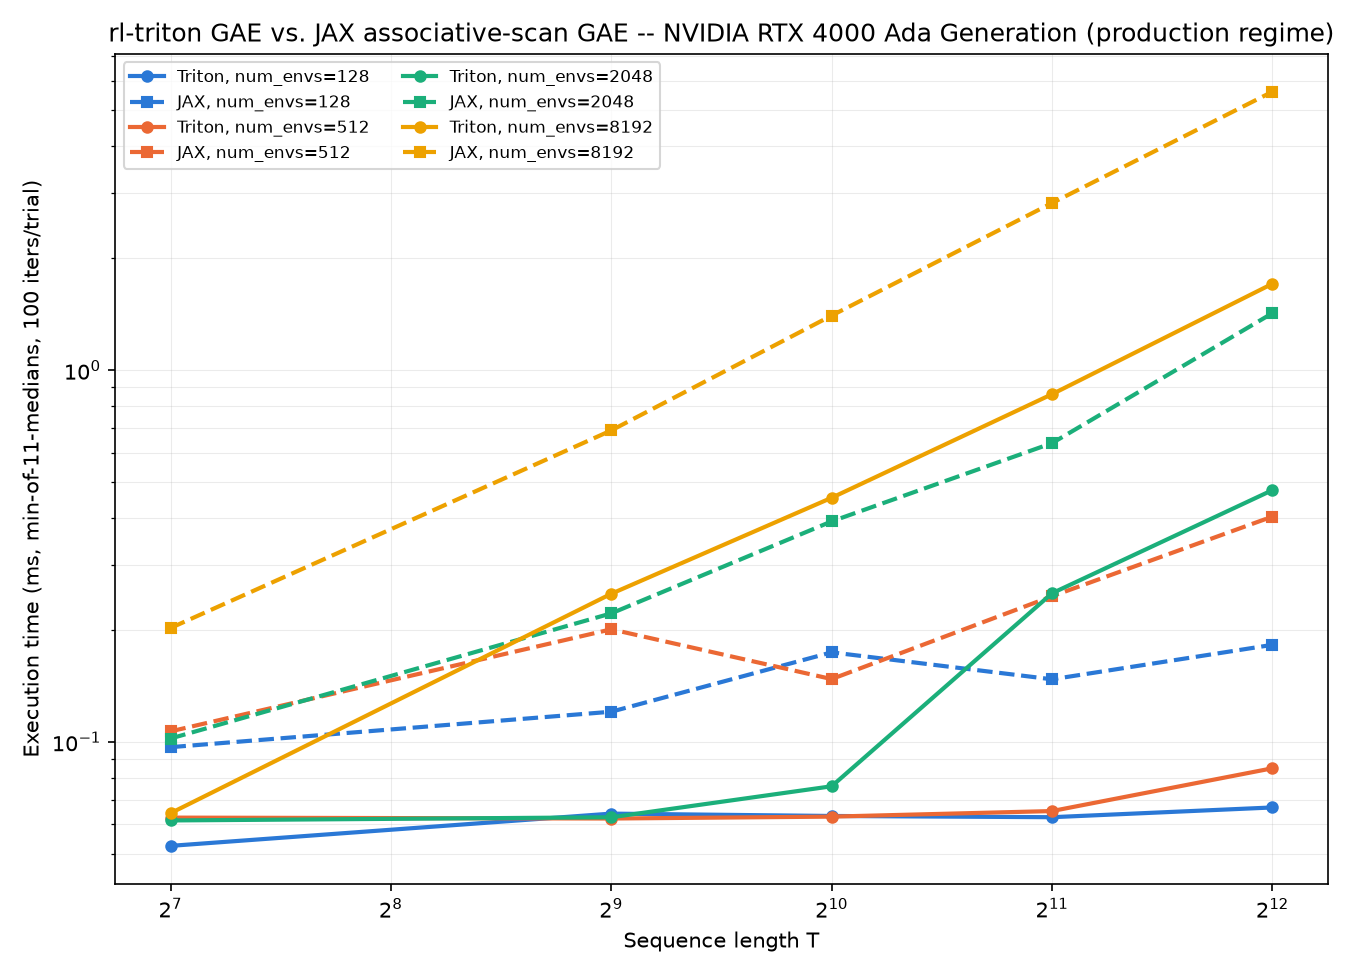
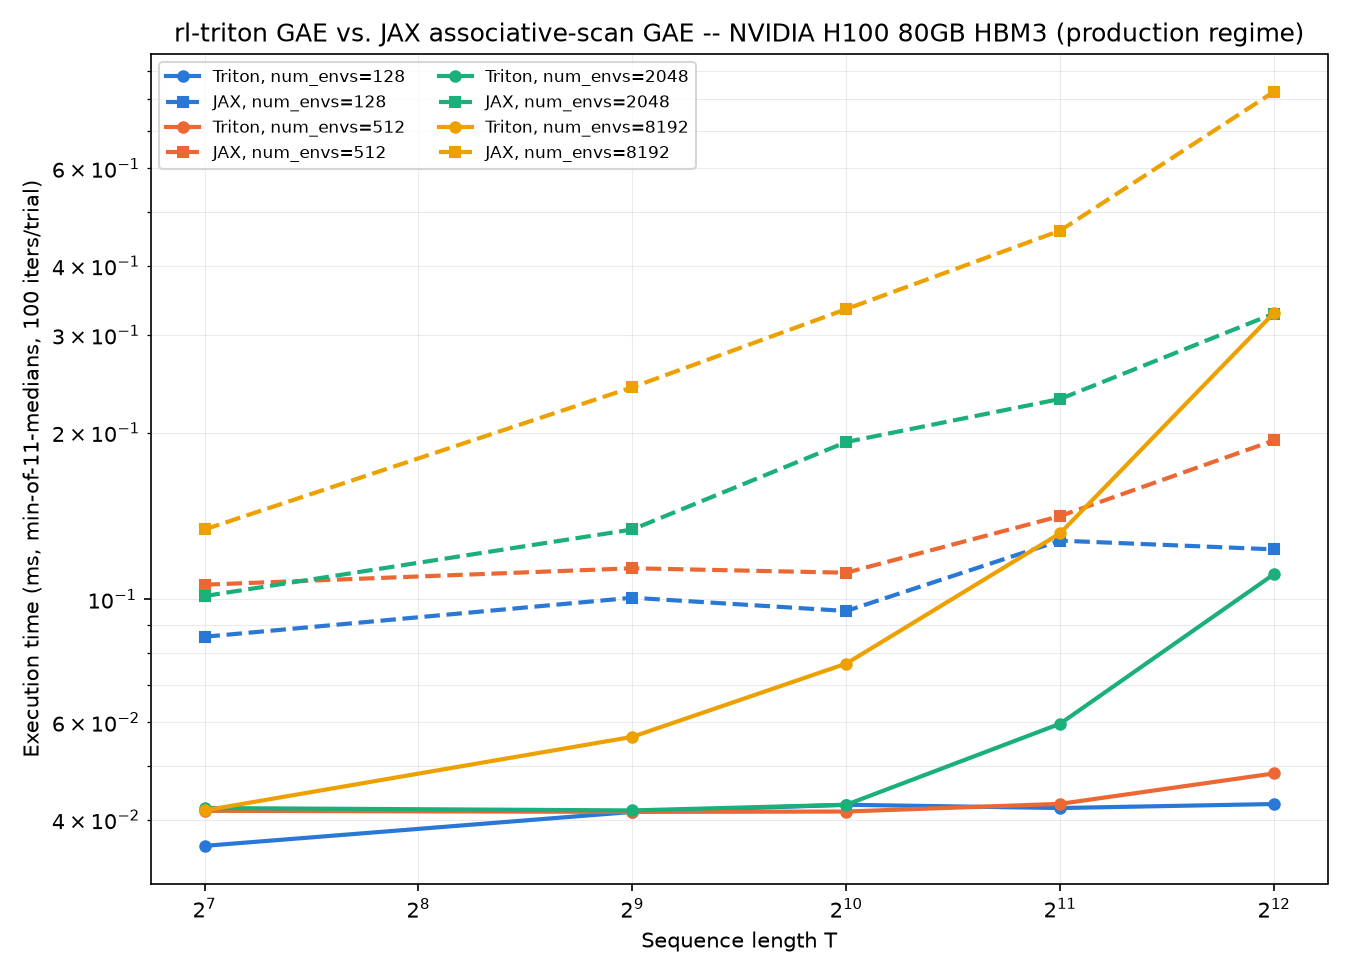
Added benchmark runs for JAX GAE on H100 SMX

diff --git a/benchmarks/gae_vs_jax_scan-2026-09-15.md b/benchmarks/gae_vs_jax_scan-2026-09-15.md
@@ -2,7 +2,7 @@
 
 ONE-OFF deep-dive study (equivalence proof, launch counts, bandwidth, crossover plots) -- not part of the release cycle, not regenerated automatically. Mirrors gae_vs_pufferlib-*.md's structure but is NOT directly comparable to it: this baseline is JAX/XLA's `jax.lax.associative_scan` (a log-depth parallel scan, compiled by XLA), not PufferLib's hand-written sequential CUDA kernel. Produced by a three-phase, two-venv pipeline (benchmark_gae_vs_jax_scan_{triton,jax,report}.py) -- see benchmark_gae_vs_jax_scan_triton.py's module docstring for why (a real torch/jax cuDNN pin conflict, not a design preference) and for the full index-mapping derivation between rl-triton's and the JAX baseline's buffer conventions. JAX's numbers are wall-clock only (time.perf_counter + block_until_ready, in a separate process from Triton's CUDA-event timing) -- no device-only/launch-count columns exist for JAX in this setup.
 
-GPU: NVIDIA RTX 4000 Ada Generation · torch 2.4.1+cu121 (cuda 12.1) · triton 3.0.0 · jax 0.10.2 (backend=gpu)
+GPU: NVIDIA H100 80GB HBM3 · torch 2.4.1+cu121 (cuda 12.1) · triton 3.0.0 · jax 0.10.2 (backend=gpu)
 dtype float32 · gamma=0.99 · lambda=0.95 · termination_prob=0.05
 
 Equivalence gate passed (see console output) -- both implementations verified to compute the same recurrence (under the derived index mapping) before any timing number below is trusted.
@@ -13,26 +13,26 @@ seq_len in [128, 512, 1024, 2048, 4096], num_envs in [128, 512, 2048, 8192].
 
 | num_envs | seq_len | triton (ms) | jax (ms) | speedup | triton amort (ms) | jax amort (ms) | triton GB/s (%peak) | jax GB/s (%peak) | triton dev (us) | triton launches |
 |---|---|---|---|---|---|---|---|---|---|---|
-| 128 | 128 | 0.0525 | 0.0968 | 1.84x | 0.0352 | 0.0606 | 5.0 (0.15%) | 3.4 (0.10%) | 1.46 | 1.0 |
-| 128 | 512 | 0.0642 | 0.1206 | 1.88x | 0.0400 | 0.0599 | 16.3 (0.49%) | 10.9 (0.32%) | 2.28 | 1.0 |
-| 128 | 1024 | 0.0632 | 0.1742 | 2.76x | 0.0385 | 0.0611 | 33.2 (0.99%) | 15.1 (0.45%) | 3.43 | 1.0 |
-| 128 | 2048 | 0.0628 | 0.1474 | 2.35x | 0.0422 | 0.0622 | 66.8 (2.00%) | 35.6 (1.06%) | 6.45 | 1.0 |
-| 128 | 4096 | 0.0667 | 0.1825 | 2.74x | 0.0379 | 0.0791 | 125.8 (3.76%) | 57.5 (1.72%) | 12.93 | 1.0 |
-| 512 | 128 | 0.0626 | 0.1068 | 1.71x | 0.0375 | 0.0753 | 16.8 (0.50%) | 12.4 (0.37%) | 2.02 | 1.0 |
-| 512 | 512 | 0.0622 | 0.2009 | 3.23x | 0.0375 | 0.0818 | 67.4 (2.01%) | 26.1 (0.78%) | 4.62 | 1.0 |
-| 512 | 1024 | 0.0630 | 0.1476 | 2.34x | 0.0375 | 0.0680 | 133.2 (3.98%) | 71.1 (2.12%) | 8.89 | 1.0 |
-| 512 | 2048 | 0.0652 | 0.2466 | 3.78x | 0.0378 | 0.0832 | 257.4 (7.68%) | 85.1 (2.54%) | 19.88 | 1.0 |
-| 512 | 4096 | 0.0850 | 0.4039 | 4.75x | 0.0393 | 0.2370 | 394.9 (11.79%) | 103.9 (3.10%) | 38.71 | 1.0 |
-| 2048 | 128 | 0.0615 | 0.1022 | 1.66x | 0.0374 | 0.0736 | 68.2 (2.04%) | 51.6 (1.54%) | 4.47 | 1.0 |
-| 2048 | 512 | 0.0627 | 0.2218 | 3.54x | 0.0375 | 0.0693 | 267.5 (7.98%) | 94.7 (2.83%) | 14.51 | 1.0 |
-| 2048 | 1024 | 0.0760 | 0.3920 | 5.16x | 0.0386 | 0.2302 | 441.5 (13.18%) | 107.1 (3.20%) | 30.27 | 1.0 |
-| 2048 | 2048 | 0.2512 | 0.6365 | 2.53x | 0.2072 | 0.5275 | 267.2 (7.98%) | 131.9 (3.94%) | 206.33 | 1.0 |
-| 2048 | 4096 | 0.4757 | 1.4236 | 2.99x | 0.4262 | 1.2652 | 282.1 (8.42%) | 117.9 (3.52%) | 428.98 | 1.0 |
-| 8192 | 128 | 0.0643 | 0.2025 | 3.15x | 0.0387 | 0.0608 | 260.8 (7.79%) | 104.2 (3.11%) | 14.39 | 1.0 |
-| 8192 | 512 | 0.2504 | 0.6886 | 2.75x | 0.2065 | 0.5248 | 268.0 (8.00%) | 122.0 (3.64%) | 205.57 | 1.0 |
-| 8192 | 1024 | 0.4538 | 1.4026 | 3.09x | 0.4100 | 1.2604 | 295.8 (8.83%) | 119.7 (3.57%) | 409.25 | 1.0 |
-| 8192 | 2048 | 0.8618 | 2.8158 | 3.27x | 0.8171 | 2.6223 | 311.5 (9.30%) | 119.2 (3.56%) | 816.28 | 1.0 |
-| 8192 | 4096 | 1.7080 | 5.6116 | 3.29x | 1.6528 | 5.4021 | 314.3 (9.38%) | 119.6 (3.57%) | 1667.33 | 1.0 |
+| 128 | 128 | 0.0359 | 0.0856 | 2.39x | 0.0230 | 0.0507 | 7.3 (0.22%) | 3.9 (0.12%) | 1.31 | 1.0 |
+| 128 | 512 | 0.0413 | 0.1007 | 2.44x | 0.0261 | 0.0525 | 25.4 (0.76%) | 13.0 (0.39%) | 1.58 | 1.0 |
+| 128 | 1024 | 0.0426 | 0.0953 | 2.24x | 0.0261 | 0.0507 | 49.3 (1.47%) | 27.5 (0.82%) | 1.93 | 1.0 |
+| 128 | 2048 | 0.0420 | 0.1276 | 3.04x | 0.0262 | 0.0616 | 99.9 (2.98%) | 41.1 (1.23%) | 2.84 | 1.0 |
+| 128 | 4096 | 0.0427 | 0.1231 | 2.88x | 0.0263 | 0.0657 | 196.5 (5.87%) | 85.2 (2.54%) | 4.31 | 1.0 |
+| 512 | 128 | 0.0415 | 0.1063 | 2.56x | 0.0263 | 0.0516 | 25.3 (0.75%) | 12.4 (0.37%) | 1.59 | 1.0 |
+| 512 | 512 | 0.0413 | 0.1138 | 2.75x | 0.0260 | 0.0618 | 101.5 (3.03%) | 46.2 (1.38%) | 2.22 | 1.0 |
+| 512 | 1024 | 0.0414 | 0.1117 | 2.70x | 0.0260 | 0.0558 | 202.7 (6.05%) | 93.9 (2.80%) | 3.33 | 1.0 |
+| 512 | 2048 | 0.0427 | 0.1414 | 3.31x | 0.0265 | 0.0649 | 392.7 (11.72%) | 148.4 (4.43%) | 6.91 | 1.0 |
+| 512 | 4096 | 0.0485 | 0.1936 | 3.99x | 0.0264 | 0.0733 | 692.1 (20.66%) | 216.7 (6.47%) | 15.88 | 1.0 |
+| 2048 | 128 | 0.0420 | 0.1014 | 2.41x | 0.0260 | 0.0527 | 99.9 (2.98%) | 52.0 (1.55%) | 2.67 | 1.0 |
+| 2048 | 512 | 0.0416 | 0.1337 | 3.22x | 0.0263 | 0.0687 | 403.6 (12.05%) | 157.1 (4.69%) | 4.64 | 1.0 |
+| 2048 | 1024 | 0.0426 | 0.1923 | 4.52x | 0.0261 | 0.0695 | 788.4 (23.53%) | 218.2 (6.51%) | 9.42 | 1.0 |
+| 2048 | 2048 | 0.0596 | 0.2301 | 3.86x | 0.0294 | 0.0939 | 1125.7 (33.60%) | 364.8 (10.89%) | 28.48 | 1.0 |
+| 2048 | 4096 | 0.1110 | 0.3282 | 2.96x | 0.0815 | 0.1920 | 1208.7 (36.08%) | 511.3 (15.26%) | 81.40 | 1.0 |
+| 8192 | 128 | 0.0416 | 0.1337 | 3.22x | 0.0261 | 0.0690 | 403.6 (12.05%) | 157.8 (4.71%) | 6.43 | 1.0 |
+| 8192 | 512 | 0.0564 | 0.2415 | 4.28x | 0.0264 | 0.1062 | 1188.9 (35.49%) | 347.9 (10.39%) | 23.90 | 1.0 |
+| 8192 | 1024 | 0.0765 | 0.3343 | 4.37x | 0.0477 | 0.1864 | 1753.5 (52.34%) | 502.3 (14.99%) | 45.68 | 1.0 |
+| 8192 | 2048 | 0.1316 | 0.4633 | 3.52x | 0.1007 | 0.3514 | 2040.0 (60.90%) | 724.5 (21.63%) | 103.55 | 1.0 |
+| 8192 | 4096 | 0.3290 | 0.8255 | 2.51x | 0.3001 | 0.6897 | 1631.7 (48.71%) | 813.1 (24.27%) | 299.66 | 1.0 |
 
 **Verdict:** Triton faster in 20/20 cells; JAX faster in 0/20 cells.
 
@@ -44,26 +44,26 @@ seq_len in [8, 16, 32, 64, 128], num_envs in [4096, 8192, 16384, 32768].
 
 | num_envs | seq_len | triton (ms) | jax (ms) | speedup | triton amort (ms) | jax amort (ms) | triton GB/s (%peak) | jax GB/s (%peak) | triton dev (us) | triton launches |
 |---|---|---|---|---|---|---|---|---|---|---|
-| 4096 | 8 | 0.0642 | 0.0971 | 1.51x | 0.0383 | 0.0650 | 8.2 (0.24%) | 7.4 (0.22%) | 4.13 | 1.0 |
-| 4096 | 16 | 0.0624 | 0.1177 | 1.89x | 0.0383 | 0.0768 | 16.8 (0.50%) | 11.7 (0.35%) | 4.16 | 1.0 |
-| 4096 | 32 | 0.0632 | 0.0954 | 1.51x | 0.0386 | 0.0698 | 33.2 (0.99%) | 28.2 (0.84%) | 4.39 | 1.0 |
-| 4096 | 64 | 0.0627 | 0.1065 | 1.70x | 0.0370 | 0.0675 | 66.9 (2.00%) | 49.9 (1.49%) | 4.65 | 1.0 |
-| 4096 | 128 | 0.0635 | 0.1407 | 2.22x | 0.0399 | 0.0689 | 132.2 (3.95%) | 75.0 (2.24%) | 7.92 | 1.0 |
-| 8192 | 8 | 0.0633 | 0.0991 | 1.56x | 0.0382 | 0.0607 | 16.6 (0.49%) | 14.5 (0.43%) | 7.02 | 1.0 |
-| 8192 | 16 | 0.0639 | 0.0872 | 1.36x | 0.0379 | 0.0576 | 32.8 (0.98%) | 31.6 (0.94%) | 7.13 | 1.0 |
-| 8192 | 32 | 0.0630 | 0.1117 | 1.77x | 0.0387 | 0.0455 | 66.6 (1.99%) | 48.1 (1.44%) | 7.20 | 1.0 |
-| 8192 | 64 | 0.0623 | 0.1516 | 2.43x | 0.0379 | 0.0571 | 134.6 (4.02%) | 70.0 (2.09%) | 8.04 | 1.0 |
-| 8192 | 128 | 0.0643 | 0.2025 | 3.15x | 0.0387 | 0.0608 | 260.8 (7.79%) | 104.2 (3.11%) | 14.39 | 1.0 |
-| 16384 | 8 | 0.0633 | 0.1130 | 1.79x | 0.0383 | 0.0696 | 33.1 (0.99%) | 25.5 (0.76%) | 12.66 | 1.0 |
-| 16384 | 16 | 0.0623 | 0.1308 | 2.10x | 0.0383 | 0.0575 | 67.3 (2.01%) | 42.1 (1.26%) | 12.74 | 1.0 |
-| 16384 | 32 | 0.0631 | 0.1318 | 2.09x | 0.0381 | 0.0578 | 132.9 (3.97%) | 81.6 (2.44%) | 12.91 | 1.0 |
-| 16384 | 64 | 0.0629 | 0.1627 | 2.59x | 0.0374 | 0.0598 | 266.5 (7.96%) | 130.5 (3.89%) | 14.71 | 1.0 |
-| 16384 | 128 | 0.0726 | 0.3229 | 4.44x | 0.0381 | 0.2164 | 461.9 (13.79%) | 130.7 (3.90%) | 27.08 | 1.0 |
-| 32768 | 8 | 0.0686 | 0.1022 | 1.49x | 0.0368 | 0.0655 | 61.1 (1.82%) | 56.5 (1.69%) | 24.02 | 1.0 |
-| 32768 | 16 | 0.0693 | 0.1224 | 1.77x | 0.0382 | 0.0529 | 121.0 (3.61%) | 89.9 (2.69%) | 24.02 | 1.0 |
-| 32768 | 32 | 0.0692 | 0.1847 | 2.67x | 0.0388 | 0.0513 | 242.4 (7.24%) | 116.4 (3.47%) | 24.13 | 1.0 |
-| 32768 | 64 | 0.0738 | 0.3611 | 4.89x | 0.0390 | 0.2186 | 454.7 (13.57%) | 117.6 (3.51%) | 27.83 | 1.0 |
-| 32768 | 128 | 0.2499 | 0.6839 | 2.74x | 0.2062 | 0.5236 | 268.5 (8.02%) | 123.4 (3.68%) | 205.31 | 1.0 |
+| 4096 | 8 | 0.0426 | 0.0891 | 2.09x | 0.0264 | 0.0440 | 12.3 (0.37%) | 8.1 (0.24%) | 3.63 | 1.0 |
+| 4096 | 16 | 0.0419 | 0.0988 | 2.36x | 0.0266 | 0.0505 | 25.1 (0.75%) | 13.9 (0.42%) | 3.65 | 1.0 |
+| 4096 | 32 | 0.0416 | 0.0927 | 2.23x | 0.0266 | 0.0494 | 50.4 (1.50%) | 29.0 (0.87%) | 3.67 | 1.0 |
+| 4096 | 64 | 0.0409 | 0.1153 | 2.82x | 0.0258 | 0.0533 | 102.5 (3.06%) | 46.1 (1.37%) | 3.79 | 1.0 |
+| 4096 | 128 | 0.0417 | 0.0770 | 1.85x | 0.0265 | 0.0417 | 201.0 (6.00%) | 137.0 (4.09%) | 3.96 | 1.0 |
+| 8192 | 8 | 0.0413 | 0.0939 | 2.27x | 0.0262 | 0.0452 | 25.4 (0.76%) | 15.3 (0.46%) | 6.08 | 1.0 |
+| 8192 | 16 | 0.0414 | 0.0903 | 2.18x | 0.0261 | 0.0496 | 50.6 (1.51%) | 30.5 (0.91%) | 6.10 | 1.0 |
+| 8192 | 32 | 0.0416 | 0.1195 | 2.88x | 0.0261 | 0.0549 | 100.9 (3.01%) | 45.0 (1.34%) | 6.12 | 1.0 |
+| 8192 | 64 | 0.0415 | 0.0904 | 2.18x | 0.0262 | 0.0470 | 202.1 (6.03%) | 117.5 (3.51%) | 6.25 | 1.0 |
+| 8192 | 128 | 0.0416 | 0.1337 | 3.22x | 0.0261 | 0.0690 | 403.6 (12.05%) | 157.8 (4.71%) | 6.43 | 1.0 |
+| 16384 | 8 | 0.0434 | 0.0887 | 2.04x | 0.0259 | 0.0450 | 48.4 (1.44%) | 32.5 (0.97%) | 11.00 | 1.0 |
+| 16384 | 16 | 0.0427 | 0.1119 | 2.62x | 0.0260 | 0.0528 | 98.3 (2.94%) | 49.2 (1.47%) | 11.02 | 1.0 |
+| 16384 | 32 | 0.0432 | 0.1036 | 2.40x | 0.0264 | 0.0543 | 194.3 (5.80%) | 103.7 (3.10%) | 11.03 | 1.0 |
+| 16384 | 64 | 0.0432 | 0.0973 | 2.26x | 0.0264 | 0.0544 | 388.6 (11.60%) | 218.1 (6.51%) | 11.17 | 1.0 |
+| 16384 | 128 | 0.0433 | 0.1815 | 4.20x | 0.0262 | 0.0685 | 775.6 (23.15%) | 232.5 (6.94%) | 11.55 | 1.0 |
+| 32768 | 8 | 0.0524 | 0.0888 | 1.69x | 0.0261 | 0.0438 | 80.0 (2.39%) | 64.9 (1.94%) | 20.84 | 1.0 |
+| 32768 | 16 | 0.0532 | 0.0985 | 1.85x | 0.0266 | 0.0527 | 157.7 (4.71%) | 111.8 (3.34%) | 20.86 | 1.0 |
+| 32768 | 32 | 0.0525 | 0.1180 | 2.24x | 0.0264 | 0.0567 | 319.3 (9.53%) | 182.2 (5.44%) | 20.87 | 1.0 |
+| 32768 | 64 | 0.0535 | 0.1385 | 2.59x | 0.0267 | 0.0500 | 627.1 (18.72%) | 306.5 (9.15%) | 21.14 | 1.0 |
+| 32768 | 128 | 0.0541 | 0.2309 | 4.27x | 0.0261 | 0.1007 | 1239.5 (37.00%) | 365.5 (10.91%) | 23.01 | 1.0 |
 
 **Verdict:** Triton faster (wall-clock) in 20/20 cells; JAX faster in 0/20 cells.
 
